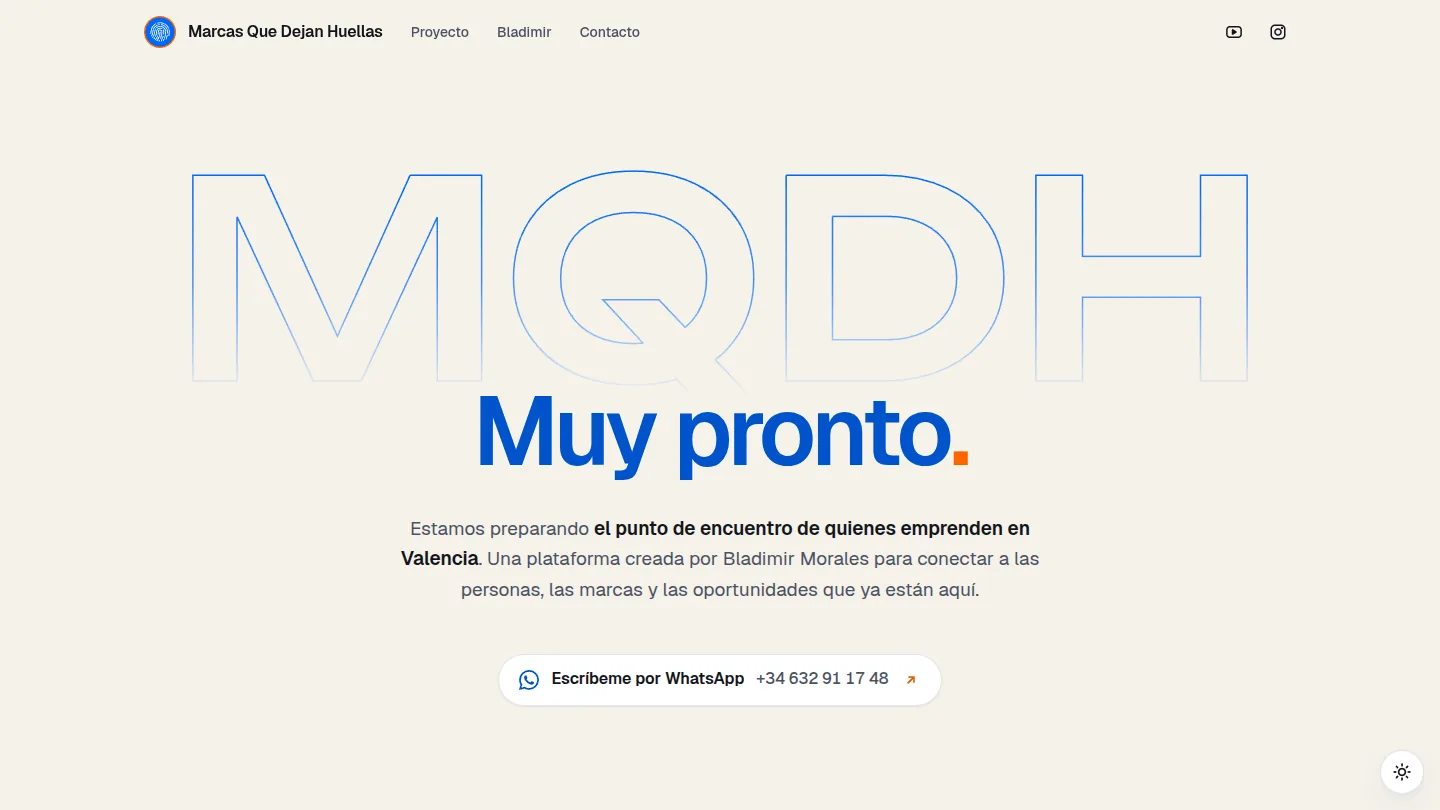
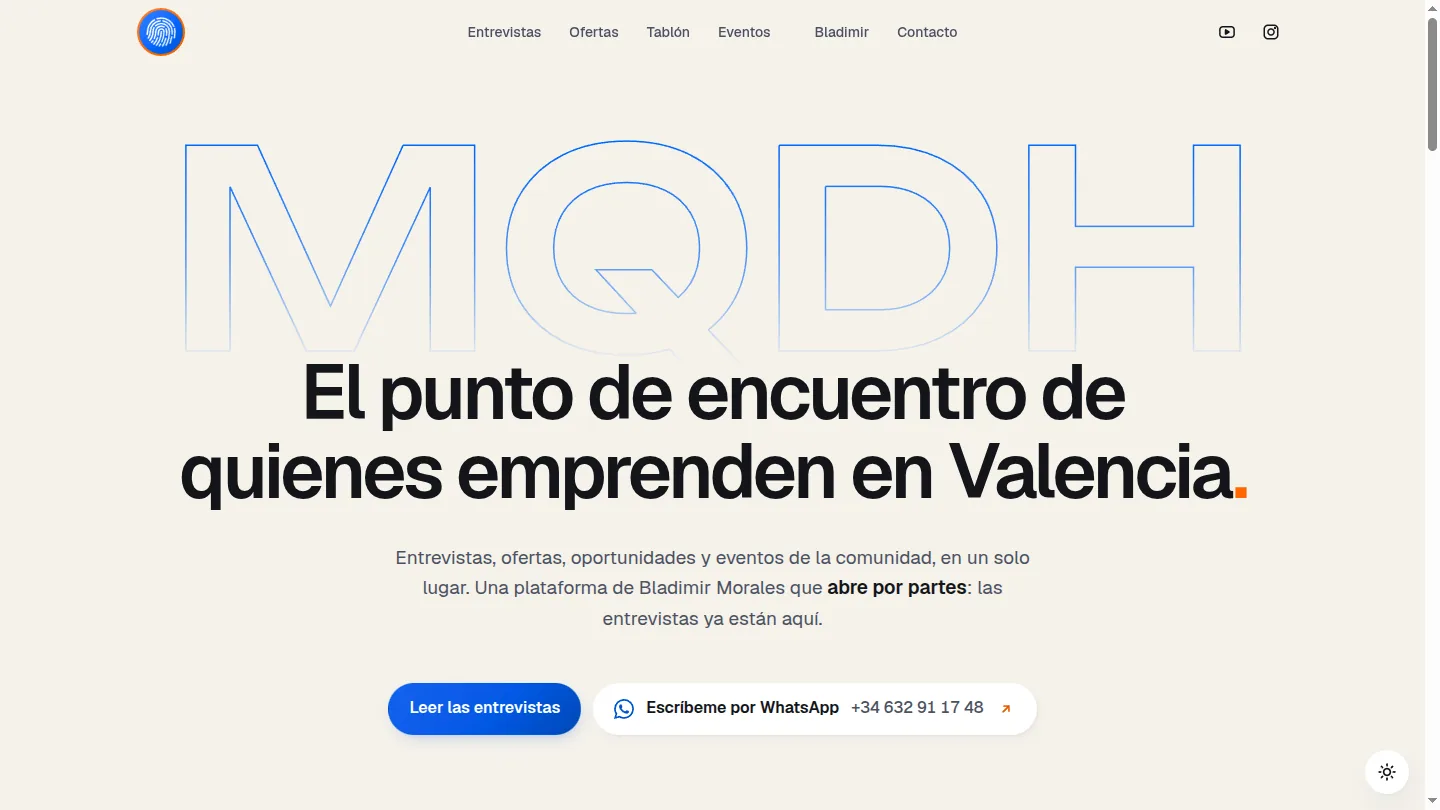
feat: MQDH's card follows its site, now opening in stages
The test deployment went from a coming-soon page to a home page that
opens in stages, the interviews first, with offers, the opportunities
board and events next. The screenshot is recaptured and the excerpt says
so in the three languages. The card stays under "Coming soon", unlinked:
marcasquedejanhuellas.com does not resolve yet.

diff --git a/src/i18n/messages/fr.ts b/src/i18n/messages/fr.ts
@@ -299,8 +299,8 @@ const fr: Messages = {
     },
     'mqdh': {
       client: "Communauté d'entrepreneurs",
-      excerpt: "Le point de rencontre des entrepreneurs de Valencia, imaginé par Bladimir Morales\u00a0: entretiens, offres et coupons, un tableau d'opportunités et des événements, au même endroit, depuis le téléphone et sans rien installer. Construit avec Claude Code sur Next.js. Pour l'instant une page d'annonce en espagnol et en anglais, en attendant la plateforme.",
-      alt: "Marcas Que Dejan Huellas\u00a0: capture de la page d'annonce",
+      excerpt: "Le point de rencontre des entrepreneurs de Valencia, imaginé par Bladimir Morales\u00a0: entretiens, offres et coupons, un tableau d'opportunités et des événements, au même endroit, depuis le téléphone et sans rien installer. Construit avec Claude Code sur Next.js. Il ouvre par étapes\u00a0: les entretiens sont déjà en ligne, le reste suit partie par partie.",
+      alt: "Marcas Que Dejan Huellas\u00a0: capture de la page d'accueil",
     },
   },
 

diff --git a/src/i18n/messages/es.ts b/src/i18n/messages/es.ts
@@ -298,8 +298,8 @@ const es: Messages = {
     },
     'mqdh': {
       client: 'Comunidad de emprendedores',
-      excerpt: 'El punto de encuentro de quienes emprenden en Valencia, creado por Bladimir Morales: entrevistas, ofertas y cupones, un tablón de oportunidades y eventos, en un mismo sitio, desde el móvil y sin instalar nada. Hecha con Claude Code sobre Next.js. Por ahora, una página de «muy pronto» en español e inglés, a la espera de la plataforma.',
-      alt: 'Marcas Que Dejan Huellas: captura de la página de «muy pronto»',
+      excerpt: 'El punto de encuentro de quienes emprenden en Valencia, creado por Bladimir Morales: entrevistas, ofertas y cupones, un tablón de oportunidades y eventos, en un mismo sitio, desde el móvil y sin instalar nada. Hecha con Claude Code sobre Next.js. Abre por partes: las entrevistas ya están, y lo demás llega poco a poco.',
+      alt: 'Marcas Que Dejan Huellas: captura de la página de inicio',
     },
   },
 

diff --git a/src/i18n/messages/en.ts b/src/i18n/messages/en.ts
@@ -303,8 +303,8 @@ const en = {
     },
     'mqdh': {
       client: 'Community of entrepreneurs',
-      excerpt: 'The meeting point for entrepreneurs in Valencia, created by Bladimir Morales: interviews, offers and coupons, an opportunities board and events, in one place, from the phone with nothing to install. Built with Claude Code on Next.js. For now a coming-soon page in Spanish and English, with the platform on the way.',
-      alt: 'Marcas Que Dejan Huellas: screenshot of the coming-soon page',
+      excerpt: 'The meeting point for entrepreneurs in Valencia, created by Bladimir Morales: interviews, offers and coupons, an opportunities board and events, in one place, from the phone with nothing to install. Built with Claude Code on Next.js. It opens in stages: the interviews are already there, and the rest follows one part at a time.',
+      alt: 'Marcas Que Dejan Huellas: screenshot of the home page',
     },
   },
 

diff --git a/docs/projects.md b/docs/projects.md
@@ -19,7 +19,7 @@ Rendered today: `title`, `stack`, `year`, `link`, `image`, and from the messages
 4. If the project was built with Claude Code, put `'Claude Code'` first in `stack` (see Positioning in `docs/content.md`). Then check each `stack` label against the `techIcons` map in `src/data/techIcons.ts`, which both project views read: a label missing from it renders as a badge with no icon.
 5. A project of Kevin's own, with no client, takes the client label "Personal project" ("Projet personnel", "Proyecto personal"; Le Petit Cours is the first). Client work is listed ahead of it.
 6. A project that is live but not finished takes `status: 'wip'`, and its excerpt says so ("and still in progress"), since the status is not shown: Deissy Olarte's two sites, added 2026-11-19. Once finished, set `status: 'live'` and drop the phrase in the three languages. Their copy says only what the two sites say publicly: the notes about that client are private and stay out of this repo.
-7. A project that is not online yet takes `status: 'upcoming'`, `featured: false` and `link: null`: it goes in the "Coming soon" group of the portfolio page, never on the homepage tabs, and it is never linked to a test or staging URL (`mqdh.vercel.app` is only for testing). Its screenshot is the coming-soon or landing page, or a capture of the work in progress. Marcas Que Dejan Huellas is the first, added 2026-11-21. Once it is live at its own domain: set `status: 'live'`, set `link`, recapture the screenshot, decide `featured` and `order`, and reread the excerpt, which says "for now a coming-soon page".
+7. A project that is not online yet takes `status: 'upcoming'`, `featured: false` and `link: null`: it goes in the "Coming soon" group of the portfolio page, never on the homepage tabs, and it is never linked to a test or staging URL (`mqdh.vercel.app` is only for testing). Its screenshot is the coming-soon or landing page, or a capture of the work in progress, recaptured when that work moves on. Marcas Que Dejan Huellas is the first, added 2026-11-21; recaptured the same day, when its test deployment went from a coming-soon page to a home page opening in stages (the interviews first). Once it is live at its own domain: set `status: 'live'`, set `link`, recapture the screenshot, decide `featured` and `order`, and reread the excerpt, which says the platform "opens in stages".
 8. Set `link` to `null` for a private or offline project, or one handed over to a client who has since changed it (SUNspot). The "Visit site" link is hidden when it is null.
 9. Add the screenshot (below).
 

diff --git a/docs/decisions/content.md b/docs/decisions/content.md
@@ -5,7 +5,7 @@ What the site says: positioning, voice, services, the terms page, what is on the
 ## 2026-11-21
 
 **Projects that are not online yet go in a "Coming soon" group below the portfolio grid, unlinked, and Marcas Que Dejan Huellas is the first.**
-Kevin wanted the new MQDH (a Next.js platform for entrepreneurs in Valencia, built with Claude Code for Bladimir Morales) on the site before a LinkedIn post about it, while marcasquedejanhuellas.com does not serve it yet. Its card has a screenshot of the coming-soon page and no link: `mqdh.vercel.app` is only for testing. The group sits below the grid, outside the filters, with the anchor `#upcoming` that a post can link to, and it is not on the homepage tabs, which stay delivered work. Its copy says only what the coming-soon page says publicly; the product brief, in a private repo, stays out. Rejected: linking the test deployment; a homepage tab; a badge on a card inside the main grid, which would mix it with delivered work. What it costs: when the site goes live, the entry moves to `live` with its link and a new screenshot (`docs/projects.md`).
+Kevin wanted the new MQDH (a Next.js platform for entrepreneurs in Valencia, built with Claude Code for Bladimir Morales) on the site before a LinkedIn post about it, while marcasquedejanhuellas.com does not serve it yet. Its card has a screenshot of the coming-soon page and no link: `mqdh.vercel.app` is only for testing. The group sits below the grid, outside the filters, with the anchor `#upcoming` that a post can link to, and it is not on the homepage tabs, which stay delivered work. Its copy says only what the coming-soon page says publicly; the product brief, in a private repo, stays out. Rejected: linking the test deployment; a homepage tab; a badge on a card inside the main grid, which would mix it with delivered work. What it costs: when the site goes live, the entry moves to `live` with its link and a new screenshot (`docs/projects.md`). (The same evening the test deployment became a home page opening in stages, interviews first: the screenshot and the excerpt followed, and the card stayed upcoming.)
 
 ## 2026-11-19
 

diff --git a/todo.md b/todo.md
@@ -15,7 +15,7 @@ Nothing is waiting for him at the moment.
 
 ## Open
 
-- [ ] **Marcas Que Dejan Huellas is on the portfolio as upcoming.** Added 2026-11-21 in the "Coming soon" group, with no link and a screenshot of the coming-soon page, taken from a local build of `../mqdh` (repo `kevjrmy/mqdh`). When marcasquedejanhuellas.com serves the new site: set `status: 'live'` and `link`, recapture the screenshot, decide whether it joins the homepage tabs, and update the excerpt in the three languages, which says "for now a coming-soon page" (`docs/projects.md`, step 7). The 2024 WordPress entry is in git history.
+- [ ] **Marcas Que Dejan Huellas is on the portfolio as upcoming.** Added 2026-11-21 in the "Coming soon" group, with no link. Its screenshot was recaptured the same evening from the test deployment (never linked), when the site went from a coming-soon page to a home page opening in stages, the interviews first. When marcasquedejanhuellas.com serves the new site: set `status: 'live'` and `link`, recapture the screenshot, decide whether it joins the homepage tabs, and update the excerpt in the three languages, which says the platform "opens in stages" (`docs/projects.md`, step 7). The 2024 WordPress entry is in git history.
 - [ ] **No catch-all route.** Any unknown URL renders the header and footer around an empty page, in English, or in French or Spanish if it starts with `/fr/` or `/es/`. Now that GitHub Pages serves the app for every path (`404.html` fallback), a mistyped URL lands there too. A `path="*"` not-found page would fix it.
 - [ ] **Le Petit Cours is filed as a PWA before it works offline.** Its repo says the service worker is not installed yet, so the portfolio excerpt does not mention offline use. Once it is, the excerpt can say so.
 - [ ] **AI page: things that would make it stronger.** Links from the journey to real work (the projects built with Claude Code), and something to show for the meetups (a photo, a talk).
